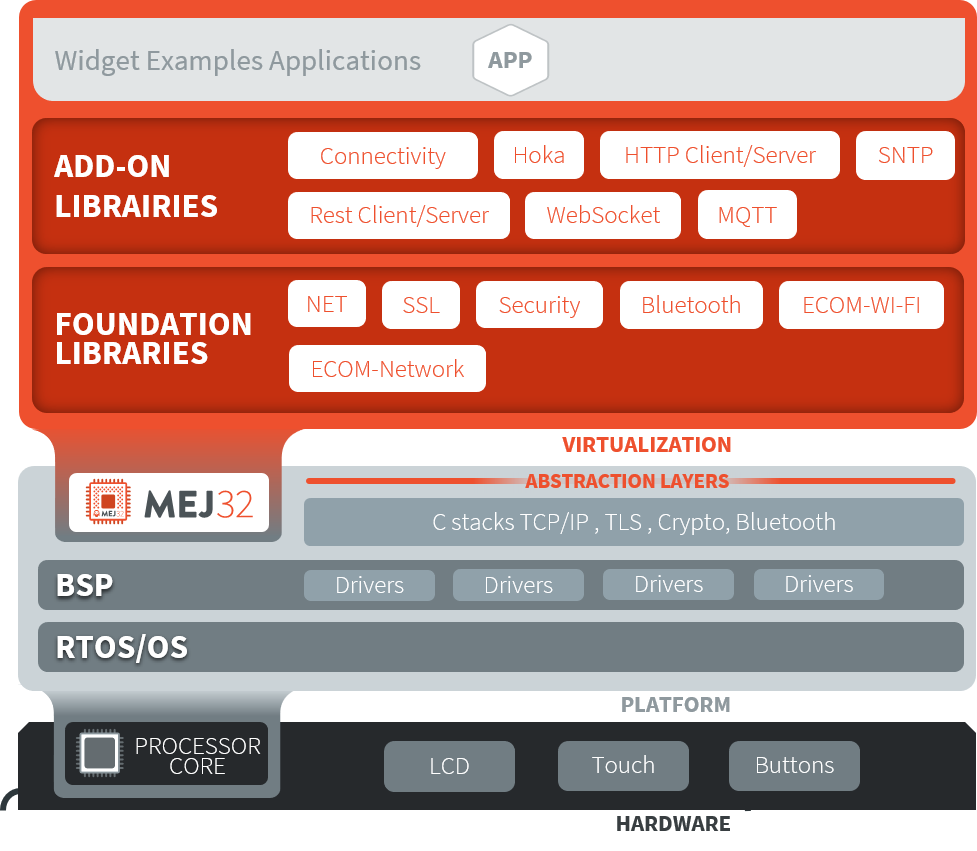
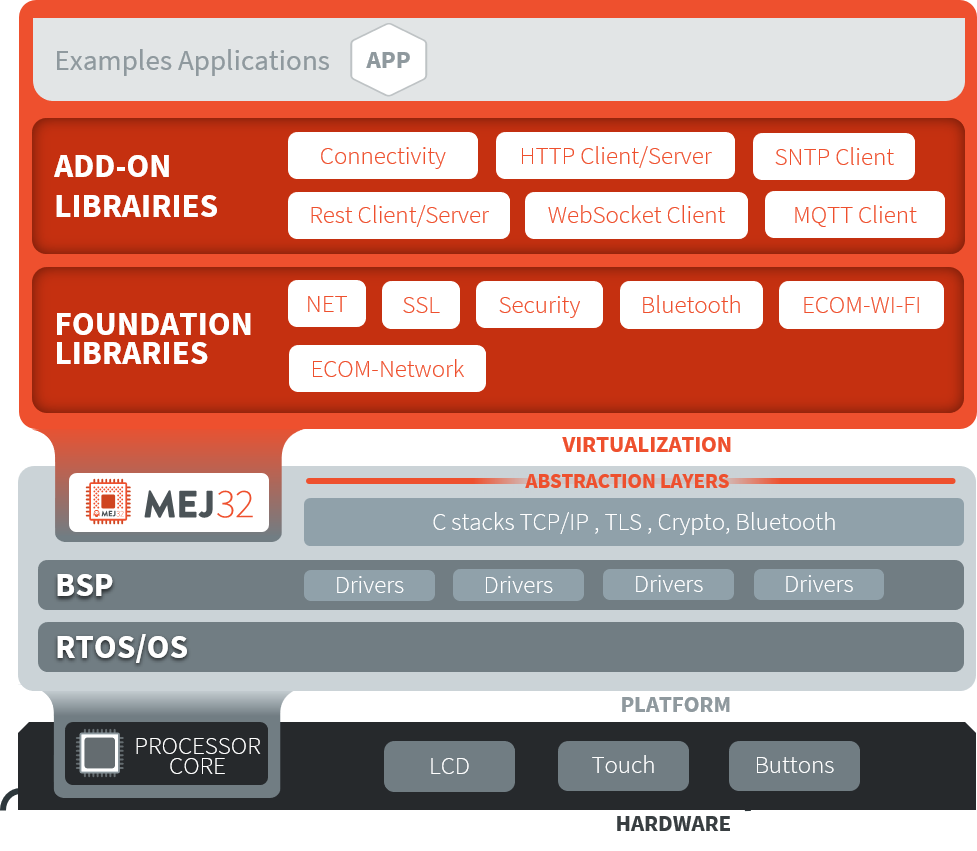
M0078DDG-417_update_doc_iot_libraries

Changed region(s): [[0.522, 0.1528, 0.9826, 0.3055], [0.0614, 0.0306, 0.5834, 0.1222]]

diff --git a/ApplicationDeveloperGuide/networking.rst b/ApplicationDeveloperGuide/networking.rst
@@ -31,16 +31,16 @@ Foundation Libraries
       -  `bluetooth <https://repository.microej.com/modules/ej/api/bluetooth/>`_
       -  `utility library <https://repository.microej.com/modules/ej/library/iot/bluetooth-util/>`_
 
+   *  -  ``ECOM-Network``
+      -  Provides classes to manage the network interfaces and their IP configurations.
+      -  `ecom-network <https://repository.microej.com/modules/ej/api/ecom-network/>`_
+      - 
+
    *  -  ``ECOM-WIFI``
       -  Provides classes to manage Wi-Fi.
       -  `ecom-wifi <https://repository.microej.com/modules/ej/api/ecom-wifi/>`_
       -  -  `wifi-util <https://repository.microej.com/modules/ej/library/iot/wifi-util/>`_
          -  `Example Wi-fi setup <https://github.com/MicroEJ/Example-Wi-Fi-Setup>`_
-
-   *  -  ``ECOM-Network``
-      -  Provides classes to manage the network interfaces and their IP configurations.
-      -  `ecom-network <https://repository.microej.com/modules/ej/api/ecom-network/>`_
-      -  No GitHub example 
 
    *  -  ``NET``
       -  Contains classes and interfaces stubs of NET API (ESR024).
@@ -51,7 +51,7 @@ Foundation Libraries
    *  -  ``Security``
       -  MicroEJ Java library API: security.
       -  `security <https://repository.microej.com/modules/ej/api/security/>`_
-      -  No GitHub example
+      - 
 
    *  -  ``SSL``
       -  Contains classes and interfaces stubs of SSL API (ESR029).
@@ -75,13 +75,12 @@ IoT Libraries
    *  -  ``Android Connectivity`` 
       -  Contains android connectivity utilities.
       -  `android-connectivity <https://repository.microej.com/modules/ej/library/iot/android-connectivity/>`_
-      -  `MicroEJ/Example/IoT/android-connectivity <https://github.com/MicroEJ/Example-Sandboxed-IOT/tree/master/com.microej.example.iot.androidconnectivity>`_
+      -  `Example-Sandboxed-IOT/android-connectivity <https://github.com/MicroEJ/Example-Sandboxed-IOT/tree/master/com.microej.example.iot.androidconnectivity>`_
 
    *  -  ``HTTP Client``
       -  Contains the implementation of an HTTP client.
-      -  `httpclient <https://repository.microej.com/modules/ej/library/eclasspath/httpclient/>`_
-      -  -  See REST Client
-         -  `HTTP Secure <https://repository.microej.com/modules/ej/library/eclasspath/httpsclient/>`_
+      -  `httpclient <https://repository.microej.com/modules/ej/library/eclasspath/httpclient/>`_, `httpsclient <https://repository.microej.com/modules/ej/library/eclasspath/httpsclient/>`_
+      -  See REST Client
    
    *  -  ``HTTP Server (Hoka)``
       -  Provides a tiny footprint yet extensible web server. Check the documentation of this library by following this link:
@@ -89,38 +88,36 @@ IoT Libraries
       -  `hoka <https://repository.microej.com/modules/ej/library/iot/hoka/>`_
       -  `Example-Hoka <https://github.com/MicroEJ/Example-Hoka>`_   
 
-   *  -  ``MQTT``
+   *  -  ``MQTT Client``
       -  - This is a fork of Paho: `eclispe/paho/clients/java <https://eclipse.org/paho/clients/java/>`_ from commit 496f94a58a41557ba2401d4ba94bc099a75ba8ef (just after version 1.0.2).
          - Implements MQTT 3.1.1
-      -  `mqtt <https://repository.microej.com/modules/org/eclipse/paho/mqttv3-microej/>`_
-      -  -  `MQTT Publisher <https://github.com/MicroEJ/Example-Sandboxed-IOT/tree/master/com.microej.example.iot.mqtt.publisher>`_  
-         -  `MQTT Subscriber <https://github.com/MicroEJ/Example-Sandboxed-IOT/tree/master/com.microej.example.iot.mqtt.subscriber>`_
+      -  `mqtt <https://repository.microej.com/modules/org/eclipse/paho/mqttv3-microej/>`_, `mqtt-ssl <https://repository.microej.com/modules/org/eclipse/paho/mqttv3-ssl-microej/>`_
+      -  -  `Example-Sandboxed-IOT/mqtt.publisher <https://github.com/MicroEJ/Example-Sandboxed-IOT/tree/master/com.microej.example.iot.mqtt.publisher>`_  
+         -  `Example-Sandboxed-IOT/mqtt.subscriber <https://github.com/MicroEJ/Example-Sandboxed-IOT/tree/master/com.microej.example.iot.ssl.mqtt.subscriber>`_
 
 
    *  -  ``REST Client``
       -  It is a tiny RESTful services client. Check out README.md
          to learn more: `RestClient/README.md <https://repository.microej.com/modules/ej/library/iot/restclient/1.1.0/README-1.1.0.md>`_
       -  `restclient <https://repository.microej.com/modules/ej/library/iot/restclient/>`_
-      -  `MicroEJ/Example/IoT/ssl.rest <https://github.com/MicroEJ/Example-Sandboxed-IOT/tree/master/com.microej.example.iot.ssl.rest>`_
+      -  `Example-Sandboxed-IOT/rest <https://github.com/MicroEJ/Example-Sandboxed-IOT/tree/master/com.microej.example.iot.ssl.rest>`_
 
    *  -  ``REST Server``
       -  A simple REST server implementation over Hoka library.
       -  `restserver <https://repository.microej.com/modules/ej/library/iot/restserver/>`_
-      -  `MicroEJ/Example/IoT/dynamic-restserver <https://github.com/MicroEJ/Example-Sandboxed-IOT/tree/master/com.microej.example.iot.dynamic-restserver>`_
+      -  `Example-Sandboxed-IOT/dynamic-restserver <https://github.com/MicroEJ/Example-Sandboxed-IOT/tree/master/com.microej.example.iot.dynamic-restserver>`_
 
    *  -  ``SNTP Client``
       -  Implements an SNTP client. It can be used to retrieve the current time from an NTP server. Check out README.md
          to learn more: `SNTPClient/README.md <https://repository.microej.com/modules/ej/library/iot/sntpclient/1.3.0/README-1.3.0.md>`_
       -  `sntpclient <https://repository.microej.com/modules/ej/library/iot/sntpclient/>`_
-      -  No GitHub example
-
+      -
 
    *  -  ``WebSocket Client``
       -  Implementation for the client side of the WebSocket protocol as described in RFC 6455. Check out README.md
          to learn more: `WebSocket/README.md <https://repository.microej.com/modules/ej/library/iot/websocket/2.0.0/README-2.0.0.md>`_
-      -  `websocket <https://repository.microej.com/modules/ej/library/iot/websocket/>`_
-      -  -  `MicroEJ/Example/IoT/ssl.websocket <https://github.com/MicroEJ/Example-Sandboxed-IOT/tree/master/com.microej.example.iot.ssl.websocket>`_
-         -  `WebSocket Secure <https://repository.microej.com/modules/ej/library/iot/websocket-secure/>`_  
+      -  `websocket <https://repository.microej.com/modules/ej/library/iot/websocket/>`_, `websocket-secure <https://repository.microej.com/modules/ej/library/iot/websocket-secure/>`_
+      -  `Example-Sandboxed-IOT/websocket <https://github.com/MicroEJ/Example-Sandboxed-IOT/tree/master/com.microej.example.iot.ssl.websocket>`_  
 
 
 Data Serialization Libraries
@@ -146,11 +143,11 @@ Data Serialization Libraries
       -  `json <https://repository.microej.com/modules/ej/library/iot/json/>`_
       -  `Tutorials/JSON <https://docs.microej.com/en/latest/Tutorials/tutorialExploreDataSerializationFormats.html#json>`_
 
-   *  -  ``Protobuf``
+   *  -  ``Protocol Buffer``
       -  Contains the lite part of Google Protocol Buffer library for java.
          It supports java files compiled by protoc with lite plugin.
       -  `protobuf3 <https://repository.microej.com/modules/com/google/protobuf3/>`_
-      -  `MicroEJ/Demo-Protobuf3 <https://github.com/MicroEJ/Demo-Protobuf3>`_
+      -  `Demo-Protobuf3 <https://github.com/MicroEJ/Demo-Protobuf3>`_
 
 
 Cloud Agent Libraries
@@ -169,12 +166,12 @@ Cloud Agent Libraries
       -  Enables MicroEJ developers to access the AWS IoT platform, providing publish/subscribe functionalities. Check out README.md
          to learn more: `AWS/README.md <https://repository.microej.com/modules/ej/library/iot/aws/aws-iot/1.2.0/README-1.2.0.md>`_
       -  `aws <https://repository.microej.com/modules/ej/library/iot/aws/aws-iot/>`_
-      -  `MicroEJ/AWS <https://github.com/MicroEJ/AWS>`_
+      -  `AWS <https://github.com/MicroEJ/AWS>`_
 
    *  -  ``Google Cloud Platform Iot Core``
       -  Allows to connect to Google Cloud Platform Iot Core services.
       -  `gcp-iotcore <https://repository.microej.com/modules/googlecloud/iotcore/>`_
-      -  No GitHub example
+      - 
 
 ..
    | Copyright 2008-2021, MicroEJ Corp. Content in this space is free
